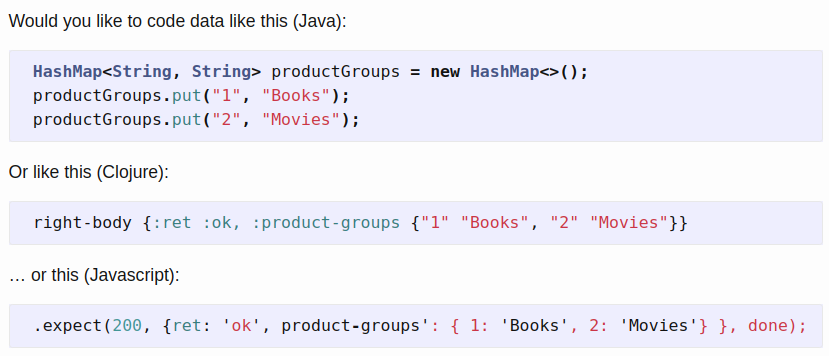
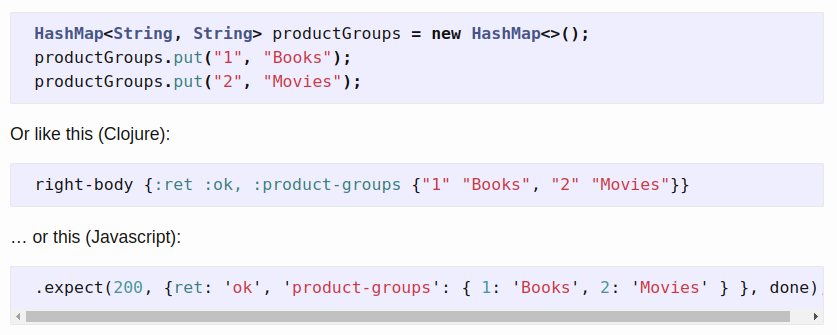
Fixed a code snippet

diff --git a/_posts/2018-11-19-five-languages-five-stories.md b/_posts/2018-11-19-five-languages-five-stories.md
@@ -303,8 +303,8 @@ Or like this (Clojure):
 
 ... or this (Javascript):
 
-```javascript  
- .expect(200, {ret: 'ok', product-groups': { 1: 'Books', 2: 'Movies'} }, done);
+```javascript
+ .expect(200, {ret: 'ok', 'product-groups': { 1: 'Books', 2: 'Movies' } }, done);
 ```
 
 Data should look like data in code. It's pretty apparent that it's more natural to treat data as data and not as some data structure. This is actually a pretty important aspect in the language and affects readability and joy of programming. Clearly Java does a terrible job here and all dynamic languages perform well (but we can't blame Java — this is the way it is and it should be in a statically typed language; the flip side of the coin is that statically typed languages provide you type safety). Go's structs are also a pretty good simplification for a statically typed language. Actually using Go you get the benefits of a statically typed language and treating data is not too bad. Special award goes to Javascript in which JSON (Javascript Object Notation) is built into the language and using JSON is very nice, of course (and JSON is pretty ubiquitous). Python also provides a simple way to treat data in code. As well as Clojure — using Clojure's native types is very readable in code (see literal map in above example). So, my verdict is:
